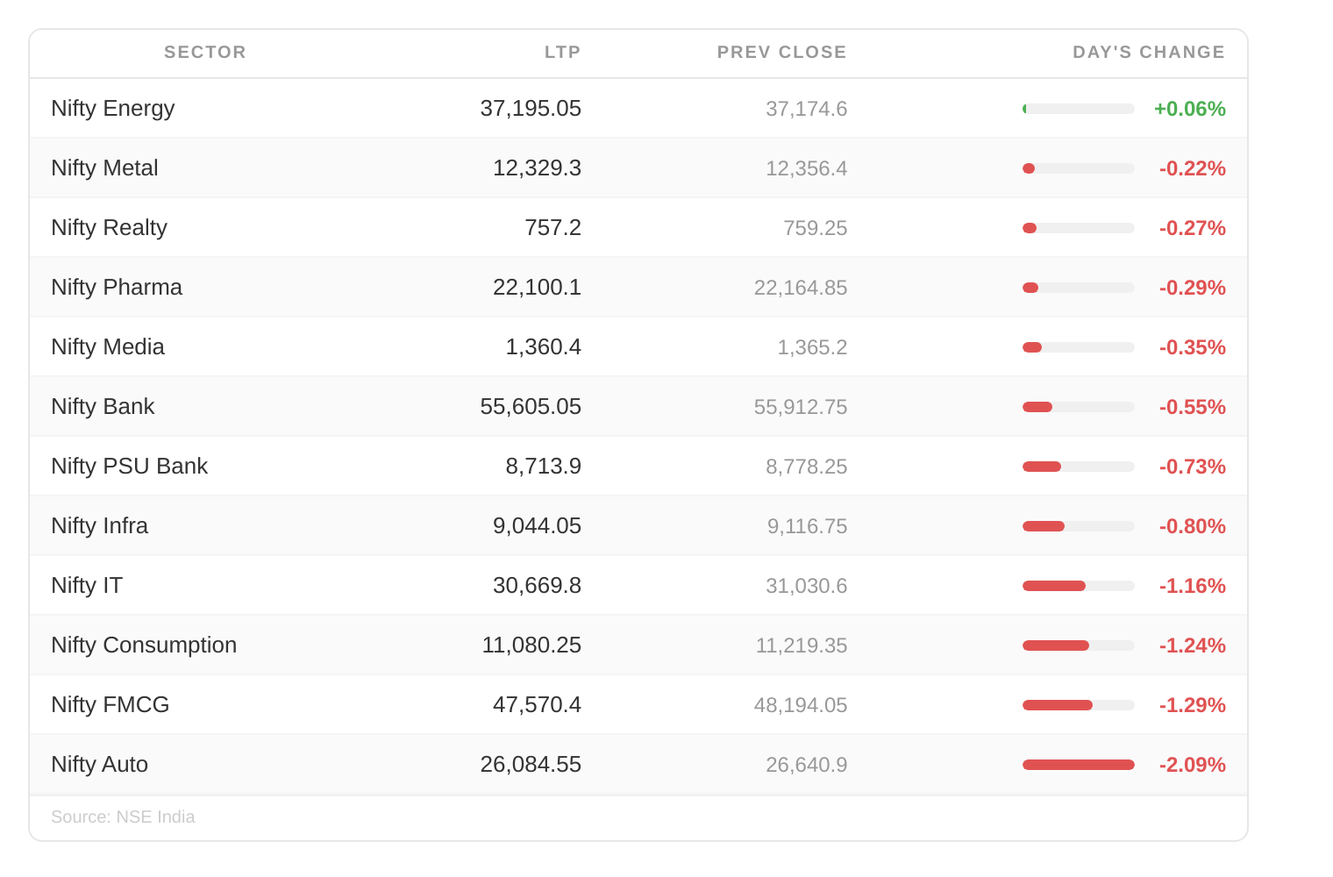
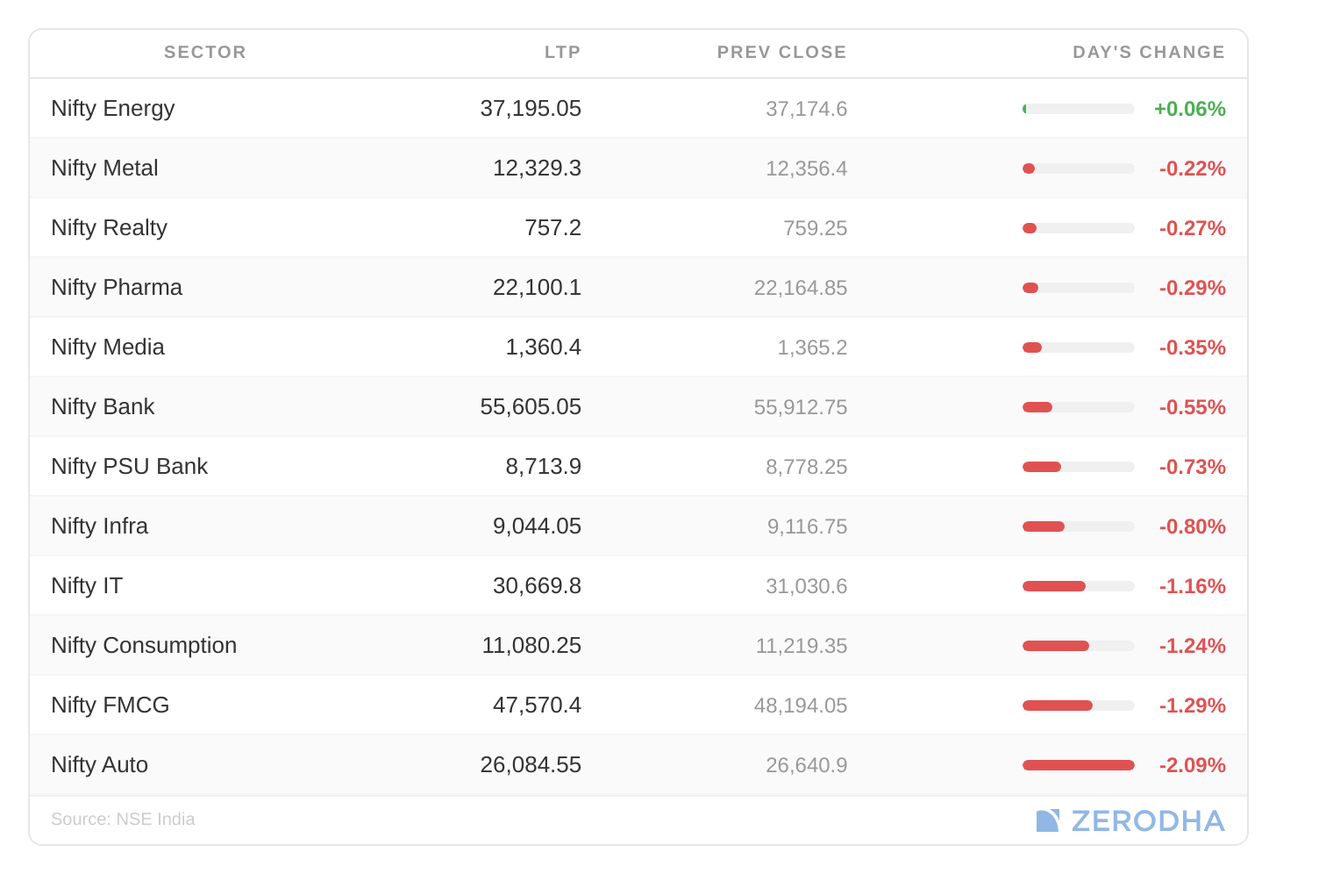
Newsletter: 2026-04-13

diff --git a/index.html b/index.html
@@ -244,7 +244,20 @@
       </div>
     </div>
   </div>
-    <div style="padding:7px 12px;font-size:10px;color:#CCCCCC;border-top:1px solid #F0F0F0;">Source: NSE India</div>
+    <div style="padding:7px 12px;font-size:10px;color:#CCCCCC;border-top:1px solid #F0F0F0;display:flex;align-items:center;justify-content:space-between;">
+    <span>Source: NSE India</span>
+    <svg height="13" viewBox="0 0 1523.45 184.15" xmlns="http://www.w3.org/2000/svg" style="display:inline-block;vertical-align:middle;opacity:0.55">
+  <path d="m1422.95,9.49h27.14l73.36,167.89h-30.98l-16.9-40.25h-78.85l-17.17,40.25h-30.02l73.42-167.89Zm41.91,101.67l-28.79-66.7-28.58,66.7h57.37Z" fill="#387ED1"/>
+  <path d="m1182.92,10.66h29.06v69.31h79.97V10.66h29.06v166.72h-29.06v-70.27h-79.97v70.27h-29.06V10.66Z" fill="#387ED1"/>
+  <path d="m156.38,44.79c11.25,14.56,20.58,30.92,27.78,48.62V0h-79.28c19.03,10.34,36.52,25.38,51.5,44.79Z" fill="#387ED1"/>
+  <path d="m42.07,9.97c-14.66,0-28.79,3.15-42.07,8.96v165.23h176.05C174.66,87.81,115.11,9.97,42.07,9.97" fill="#387ED1"/>
+  <path d="m289.35,155.68l98.37-119.05h-95.28V10.66h133.34v21.65l-98.37,119.11h98.37v25.96h-136.49v-21.7h.05Z" fill="#387ED1"/>
+  <path d="m462.46,10.66h123.37v26.44h-94.32v42.87h83.6v26.44h-83.6v44.52h95.49v26.44h-124.55V10.66h0Z" fill="#387ED1"/>
+  <path d="m622.04,10.66h74.32c10.5,0,19.78,1.49,27.88,4.43,8.1,2.93,14.82,7.04,20.26,12.26,4.43,4.59,7.84,9.92,10.24,15.94,2.4,6.02,3.57,12.69,3.57,19.99v.48c0,6.82-1.01,12.96-2.99,18.45-1.97,5.49-4.75,10.34-8.21,14.5-3.52,4.21-7.68,7.78-12.53,10.72-4.85,2.93-10.18,5.22-16.1,6.77l45,63.13h-34.55l-41.11-58.11h-36.73v58.11h-29.06V10.66Zm72.08,82.64c10.5,0,18.87-2.51,25.06-7.52,6.18-5.01,9.33-11.84,9.33-20.47v-.48c0-9.06-3.04-15.99-9.06-20.69-6.02-4.69-14.56-7.04-25.54-7.04h-42.81v56.2h43.03Z" fill="#387ED1"/>
+  <path d="m873.8,180.21c-12.85,0-24.63-2.24-35.24-6.77-10.66-4.53-19.78-10.66-27.4-18.45s-13.6-16.85-17.86-27.24c-4.27-10.4-6.45-21.49-6.45-33.22v-.48c0-11.73,2.13-22.82,6.45-33.22,4.27-10.4,10.34-19.51,18.07-27.4,7.78-7.84,17.01-14.08,27.62-18.71,10.61-4.59,22.39-6.93,35.24-6.93s24.63,2.24,35.24,6.77c10.61,4.53,19.78,10.66,27.4,18.45,7.62,7.78,13.6,16.85,17.86,27.24,4.27,10.4,6.45,21.49,6.45,33.22v.48c0,11.73-2.13,22.82-6.45,33.22-4.27,10.4-10.34,19.51-18.07,27.4-7.78,7.84-17.01,14.08-27.62,18.71-10.66,4.64-22.39,6.93-35.24,6.93Zm.43-26.87c8.21,0,15.78-1.55,22.66-4.64,6.88-3.09,12.74-7.3,17.65-12.64s8.74-11.57,11.52-18.71c2.77-7.14,4.16-14.77,4.16-22.87v-.48c0-8.1-1.39-15.78-4.16-22.98-2.77-7.2-6.66-13.49-11.62-18.82-4.96-5.33-10.93-9.54-17.91-12.74-6.98-3.2-14.56-4.75-22.77-4.75s-15.78,1.55-22.66,4.64c-6.88,3.09-12.74,7.3-17.65,12.64-4.91,5.33-8.74,11.57-11.52,18.71-2.77,7.14-4.16,14.77-4.16,22.87v.48c0,8.1,1.39,15.78,4.16,22.98,2.77,7.25,6.66,13.49,11.62,18.82,4.96,5.33,10.93,9.54,17.91,12.74,6.98,3.15,14.56,4.75,22.77,4.75Z" fill="#387ED1"/>
+  <path d="m996.64,10.66h62.17c13.01,0,24.95,2.13,35.83,6.29,10.88,4.21,20.26,10.02,28.1,17.49,7.84,7.46,13.92,16.26,18.23,26.34,4.27,10.08,6.45,21.01,6.45,32.74v.48c0,11.73-2.13,22.71-6.45,32.84-4.27,10.18-10.34,18.98-18.23,26.44-7.84,7.46-17.22,13.33-28.1,17.65-10.88,4.27-22.82,6.45-35.83,6.45h-62.17V10.66h0Zm61.95,140.27c8.74,0,16.69-1.39,23.83-4.16,7.14-2.77,13.22-6.72,18.23-11.73,5.01-5.01,8.9-10.98,11.68-17.91,2.77-6.93,4.16-14.45,4.16-22.61v-.48c0-8.1-1.39-15.73-4.16-22.71-2.77-7.04-6.66-13.01-11.68-18.07-5.01-5.01-11.09-8.96-18.23-11.84-7.14-2.88-15.09-4.32-23.83-4.32h-32.84v113.83h32.84Z" fill="#387ED1"/>
+</svg>
+  </div>
   </div>
   </div>
   <div class="nl-divider"></div>
@@ -409,7 +422,20 @@
       </td>
     </tr></tbody>
     </table>
-    <div style="padding:7px 12px;font-size:10px;color:#CCCCCC;border-top:1px solid #F0F0F0;">Source: NSE India</div>
+    <div style="padding:7px 12px;font-size:10px;color:#CCCCCC;border-top:1px solid #F0F0F0;display:flex;align-items:center;justify-content:space-between;">
+    <span>Source: NSE India</span>
+    <svg height="13" viewBox="0 0 1523.45 184.15" xmlns="http://www.w3.org/2000/svg" style="display:inline-block;vertical-align:middle;opacity:0.55">
+  <path d="m1422.95,9.49h27.14l73.36,167.89h-30.98l-16.9-40.25h-78.85l-17.17,40.25h-30.02l73.42-167.89Zm41.91,101.67l-28.79-66.7-28.58,66.7h57.37Z" fill="#387ED1"/>
+  <path d="m1182.92,10.66h29.06v69.31h79.97V10.66h29.06v166.72h-29.06v-70.27h-79.97v70.27h-29.06V10.66Z" fill="#387ED1"/>
+  <path d="m156.38,44.79c11.25,14.56,20.58,30.92,27.78,48.62V0h-79.28c19.03,10.34,36.52,25.38,51.5,44.79Z" fill="#387ED1"/>
+  <path d="m42.07,9.97c-14.66,0-28.79,3.15-42.07,8.96v165.23h176.05C174.66,87.81,115.11,9.97,42.07,9.97" fill="#387ED1"/>
+  <path d="m289.35,155.68l98.37-119.05h-95.28V10.66h133.34v21.65l-98.37,119.11h98.37v25.96h-136.49v-21.7h.05Z" fill="#387ED1"/>
+  <path d="m462.46,10.66h123.37v26.44h-94.32v42.87h83.6v26.44h-83.6v44.52h95.49v26.44h-124.55V10.66h0Z" fill="#387ED1"/>
+  <path d="m622.04,10.66h74.32c10.5,0,19.78,1.49,27.88,4.43,8.1,2.93,14.82,7.04,20.26,12.26,4.43,4.59,7.84,9.92,10.24,15.94,2.4,6.02,3.57,12.69,3.57,19.99v.48c0,6.82-1.01,12.96-2.99,18.45-1.97,5.49-4.75,10.34-8.21,14.5-3.52,4.21-7.68,7.78-12.53,10.72-4.85,2.93-10.18,5.22-16.1,6.77l45,63.13h-34.55l-41.11-58.11h-36.73v58.11h-29.06V10.66Zm72.08,82.64c10.5,0,18.87-2.51,25.06-7.52,6.18-5.01,9.33-11.84,9.33-20.47v-.48c0-9.06-3.04-15.99-9.06-20.69-6.02-4.69-14.56-7.04-25.54-7.04h-42.81v56.2h43.03Z" fill="#387ED1"/>
+  <path d="m873.8,180.21c-12.85,0-24.63-2.24-35.24-6.77-10.66-4.53-19.78-10.66-27.4-18.45s-13.6-16.85-17.86-27.24c-4.27-10.4-6.45-21.49-6.45-33.22v-.48c0-11.73,2.13-22.82,6.45-33.22,4.27-10.4,10.34-19.51,18.07-27.4,7.78-7.84,17.01-14.08,27.62-18.71,10.61-4.59,22.39-6.93,35.24-6.93s24.63,2.24,35.24,6.77c10.61,4.53,19.78,10.66,27.4,18.45,7.62,7.78,13.6,16.85,17.86,27.24,4.27,10.4,6.45,21.49,6.45,33.22v.48c0,11.73-2.13,22.82-6.45,33.22-4.27,10.4-10.34,19.51-18.07,27.4-7.78,7.84-17.01,14.08-27.62,18.71-10.66,4.64-22.39,6.93-35.24,6.93Zm.43-26.87c8.21,0,15.78-1.55,22.66-4.64,6.88-3.09,12.74-7.3,17.65-12.64s8.74-11.57,11.52-18.71c2.77-7.14,4.16-14.77,4.16-22.87v-.48c0-8.1-1.39-15.78-4.16-22.98-2.77-7.2-6.66-13.49-11.62-18.82-4.96-5.33-10.93-9.54-17.91-12.74-6.98-3.2-14.56-4.75-22.77-4.75s-15.78,1.55-22.66,4.64c-6.88,3.09-12.74,7.3-17.65,12.64-4.91,5.33-8.74,11.57-11.52,18.71-2.77,7.14-4.16,14.77-4.16,22.87v.48c0,8.1,1.39,15.78,4.16,22.98,2.77,7.25,6.66,13.49,11.62,18.82,4.96,5.33,10.93,9.54,17.91,12.74,6.98,3.15,14.56,4.75,22.77,4.75Z" fill="#387ED1"/>
+  <path d="m996.64,10.66h62.17c13.01,0,24.95,2.13,35.83,6.29,10.88,4.21,20.26,10.02,28.1,17.49,7.84,7.46,13.92,16.26,18.23,26.34,4.27,10.08,6.45,21.01,6.45,32.74v.48c0,11.73-2.13,22.71-6.45,32.84-4.27,10.18-10.34,18.98-18.23,26.44-7.84,7.46-17.22,13.33-28.1,17.65-10.88,4.27-22.82,6.45-35.83,6.45h-62.17V10.66h0Zm61.95,140.27c8.74,0,16.69-1.39,23.83-4.16,7.14-2.77,13.22-6.72,18.23-11.73,5.01-5.01,8.9-10.98,11.68-17.91,2.77-6.93,4.16-14.45,4.16-22.61v-.48c0-8.1-1.39-15.73-4.16-22.71-2.77-7.04-6.66-13.01-11.68-18.07-5.01-5.01-11.09-8.96-18.23-11.84-7.14-2.88-15.09-4.32-23.83-4.32h-32.84v113.83h32.84Z" fill="#387ED1"/>
+</svg>
+  </div>
   </div>
 <div style="display:flex;gap:12px;margin-top:12px;">
     <div style="flex:1;border:1px solid #E7E7E7;border-radius:8px;overflow:hidden;">
@@ -441,7 +467,20 @@
       <td style="padding:9px 12px;font-size:13px;color:#333;border-bottom:1px solid #F5F5F5;text-align:right;font-weight:600;color:#4CAF52;">+13.49%</td>
     </tr></tbody>
       </table>
-      <div style="padding:7px 12px;font-size:10px;color:#CCCCCC;border-top:1px solid #F0F0F0;">Source: NSE India</div>
+      <div style="padding:7px 12px;font-size:10px;color:#CCCCCC;border-top:1px solid #F0F0F0;display:flex;align-items:center;justify-content:space-between;">
+    <span>Source: NSE India</span>
+    <svg height="13" viewBox="0 0 1523.45 184.15" xmlns="http://www.w3.org/2000/svg" style="display:inline-block;vertical-align:middle;opacity:0.55">
+  <path d="m1422.95,9.49h27.14l73.36,167.89h-30.98l-16.9-40.25h-78.85l-17.17,40.25h-30.02l73.42-167.89Zm41.91,101.67l-28.79-66.7-28.58,66.7h57.37Z" fill="#387ED1"/>
+  <path d="m1182.92,10.66h29.06v69.31h79.97V10.66h29.06v166.72h-29.06v-70.27h-79.97v70.27h-29.06V10.66Z" fill="#387ED1"/>
+  <path d="m156.38,44.79c11.25,14.56,20.58,30.92,27.78,48.62V0h-79.28c19.03,10.34,36.52,25.38,51.5,44.79Z" fill="#387ED1"/>
+  <path d="m42.07,9.97c-14.66,0-28.79,3.15-42.07,8.96v165.23h176.05C174.66,87.81,115.11,9.97,42.07,9.97" fill="#387ED1"/>
+  <path d="m289.35,155.68l98.37-119.05h-95.28V10.66h133.34v21.65l-98.37,119.11h98.37v25.96h-136.49v-21.7h.05Z" fill="#387ED1"/>
+  <path d="m462.46,10.66h123.37v26.44h-94.32v42.87h83.6v26.44h-83.6v44.52h95.49v26.44h-124.55V10.66h0Z" fill="#387ED1"/>
+  <path d="m622.04,10.66h74.32c10.5,0,19.78,1.49,27.88,4.43,8.1,2.93,14.82,7.04,20.26,12.26,4.43,4.59,7.84,9.92,10.24,15.94,2.4,6.02,3.57,12.69,3.57,19.99v.48c0,6.82-1.01,12.96-2.99,18.45-1.97,5.49-4.75,10.34-8.21,14.5-3.52,4.21-7.68,7.78-12.53,10.72-4.85,2.93-10.18,5.22-16.1,6.77l45,63.13h-34.55l-41.11-58.11h-36.73v58.11h-29.06V10.66Zm72.08,82.64c10.5,0,18.87-2.51,25.06-7.52,6.18-5.01,9.33-11.84,9.33-20.47v-.48c0-9.06-3.04-15.99-9.06-20.69-6.02-4.69-14.56-7.04-25.54-7.04h-42.81v56.2h43.03Z" fill="#387ED1"/>
+  <path d="m873.8,180.21c-12.85,0-24.63-2.24-35.24-6.77-10.66-4.53-19.78-10.66-27.4-18.45s-13.6-16.85-17.86-27.24c-4.27-10.4-6.45-21.49-6.45-33.22v-.48c0-11.73,2.13-22.82,6.45-33.22,4.27-10.4,10.34-19.51,18.07-27.4,7.78-7.84,17.01-14.08,27.62-18.71,10.61-4.59,22.39-6.93,35.24-6.93s24.63,2.24,35.24,6.77c10.61,4.53,19.78,10.66,27.4,18.45,7.62,7.78,13.6,16.85,17.86,27.24,4.27,10.4,6.45,21.49,6.45,33.22v.48c0,11.73-2.13,22.82-6.45,33.22-4.27,10.4-10.34,19.51-18.07,27.4-7.78,7.84-17.01,14.08-27.62,18.71-10.66,4.64-22.39,6.93-35.24,6.93Zm.43-26.87c8.21,0,15.78-1.55,22.66-4.64,6.88-3.09,12.74-7.3,17.65-12.64s8.74-11.57,11.52-18.71c2.77-7.14,4.16-14.77,4.16-22.87v-.48c0-8.1-1.39-15.78-4.16-22.98-2.77-7.2-6.66-13.49-11.62-18.82-4.96-5.33-10.93-9.54-17.91-12.74-6.98-3.2-14.56-4.75-22.77-4.75s-15.78,1.55-22.66,4.64c-6.88,3.09-12.74,7.3-17.65,12.64-4.91,5.33-8.74,11.57-11.52,18.71-2.77,7.14-4.16,14.77-4.16,22.87v.48c0,8.1,1.39,15.78,4.16,22.98,2.77,7.25,6.66,13.49,11.62,18.82,4.96,5.33,10.93,9.54,17.91,12.74,6.98,3.15,14.56,4.75,22.77,4.75Z" fill="#387ED1"/>
+  <path d="m996.64,10.66h62.17c13.01,0,24.95,2.13,35.83,6.29,10.88,4.21,20.26,10.02,28.1,17.49,7.84,7.46,13.92,16.26,18.23,26.34,4.27,10.08,6.45,21.01,6.45,32.74v.48c0,11.73-2.13,22.71-6.45,32.84-4.27,10.18-10.34,18.98-18.23,26.44-7.84,7.46-17.22,13.33-28.1,17.65-10.88,4.27-22.82,6.45-35.83,6.45h-62.17V10.66h0Zm61.95,140.27c8.74,0,16.69-1.39,23.83-4.16,7.14-2.77,13.22-6.72,18.23-11.73,5.01-5.01,8.9-10.98,11.68-17.91,2.77-6.93,4.16-14.45,4.16-22.61v-.48c0-8.1-1.39-15.73-4.16-22.71-2.77-7.04-6.66-13.01-11.68-18.07-5.01-5.01-11.09-8.96-18.23-11.84-7.14-2.88-15.09-4.32-23.83-4.32h-32.84v113.83h32.84Z" fill="#387ED1"/>
+</svg>
+  </div>
     </div>
     <div style="flex:1;border:1px solid #E7E7E7;border-radius:8px;overflow:hidden;">
       <table style="width:100%;border-collapse:collapse;">
@@ -472,7 +511,20 @@
       <td style="padding:9px 12px;font-size:13px;color:#333;border-bottom:1px solid #F5F5F5;text-align:right;font-weight:600;color:#E05252;">-7.28%</td>
     </tr></tbody>
       </table>
-      <div style="padding:7px 12px;font-size:10px;color:#CCCCCC;border-top:1px solid #F0F0F0;">Source: NSE India</div>
+      <div style="padding:7px 12px;font-size:10px;color:#CCCCCC;border-top:1px solid #F0F0F0;display:flex;align-items:center;justify-content:space-between;">
+    <span>Source: NSE India</span>
+    <svg height="13" viewBox="0 0 1523.45 184.15" xmlns="http://www.w3.org/2000/svg" style="display:inline-block;vertical-align:middle;opacity:0.55">
+  <path d="m1422.95,9.49h27.14l73.36,167.89h-30.98l-16.9-40.25h-78.85l-17.17,40.25h-30.02l73.42-167.89Zm41.91,101.67l-28.79-66.7-28.58,66.7h57.37Z" fill="#387ED1"/>
+  <path d="m1182.92,10.66h29.06v69.31h79.97V10.66h29.06v166.72h-29.06v-70.27h-79.97v70.27h-29.06V10.66Z" fill="#387ED1"/>
+  <path d="m156.38,44.79c11.25,14.56,20.58,30.92,27.78,48.62V0h-79.28c19.03,10.34,36.52,25.38,51.5,44.79Z" fill="#387ED1"/>
+  <path d="m42.07,9.97c-14.66,0-28.79,3.15-42.07,8.96v165.23h176.05C174.66,87.81,115.11,9.97,42.07,9.97" fill="#387ED1"/>
+  <path d="m289.35,155.68l98.37-119.05h-95.28V10.66h133.34v21.65l-98.37,119.11h98.37v25.96h-136.49v-21.7h.05Z" fill="#387ED1"/>
+  <path d="m462.46,10.66h123.37v26.44h-94.32v42.87h83.6v26.44h-83.6v44.52h95.49v26.44h-124.55V10.66h0Z" fill="#387ED1"/>
+  <path d="m622.04,10.66h74.32c10.5,0,19.78,1.49,27.88,4.43,8.1,2.93,14.82,7.04,20.26,12.26,4.43,4.59,7.84,9.92,10.24,15.94,2.4,6.02,3.57,12.69,3.57,19.99v.48c0,6.82-1.01,12.96-2.99,18.45-1.97,5.49-4.75,10.34-8.21,14.5-3.52,4.21-7.68,7.78-12.53,10.72-4.85,2.93-10.18,5.22-16.1,6.77l45,63.13h-34.55l-41.11-58.11h-36.73v58.11h-29.06V10.66Zm72.08,82.64c10.5,0,18.87-2.51,25.06-7.52,6.18-5.01,9.33-11.84,9.33-20.47v-.48c0-9.06-3.04-15.99-9.06-20.69-6.02-4.69-14.56-7.04-25.54-7.04h-42.81v56.2h43.03Z" fill="#387ED1"/>
+  <path d="m873.8,180.21c-12.85,0-24.63-2.24-35.24-6.77-10.66-4.53-19.78-10.66-27.4-18.45s-13.6-16.85-17.86-27.24c-4.27-10.4-6.45-21.49-6.45-33.22v-.48c0-11.73,2.13-22.82,6.45-33.22,4.27-10.4,10.34-19.51,18.07-27.4,7.78-7.84,17.01-14.08,27.62-18.71,10.61-4.59,22.39-6.93,35.24-6.93s24.63,2.24,35.24,6.77c10.61,4.53,19.78,10.66,27.4,18.45,7.62,7.78,13.6,16.85,17.86,27.24,4.27,10.4,6.45,21.49,6.45,33.22v.48c0,11.73-2.13,22.82-6.45,33.22-4.27,10.4-10.34,19.51-18.07,27.4-7.78,7.84-17.01,14.08-27.62,18.71-10.66,4.64-22.39,6.93-35.24,6.93Zm.43-26.87c8.21,0,15.78-1.55,22.66-4.64,6.88-3.09,12.74-7.3,17.65-12.64s8.74-11.57,11.52-18.71c2.77-7.14,4.16-14.77,4.16-22.87v-.48c0-8.1-1.39-15.78-4.16-22.98-2.77-7.2-6.66-13.49-11.62-18.82-4.96-5.33-10.93-9.54-17.91-12.74-6.98-3.2-14.56-4.75-22.77-4.75s-15.78,1.55-22.66,4.64c-6.88,3.09-12.74,7.3-17.65,12.64-4.91,5.33-8.74,11.57-11.52,18.71-2.77,7.14-4.16,14.77-4.16,22.87v.48c0,8.1,1.39,15.78,4.16,22.98,2.77,7.25,6.66,13.49,11.62,18.82,4.96,5.33,10.93,9.54,17.91,12.74,6.98,3.15,14.56,4.75,22.77,4.75Z" fill="#387ED1"/>
+  <path d="m996.64,10.66h62.17c13.01,0,24.95,2.13,35.83,6.29,10.88,4.21,20.26,10.02,28.1,17.49,7.84,7.46,13.92,16.26,18.23,26.34,4.27,10.08,6.45,21.01,6.45,32.74v.48c0,11.73-2.13,22.71-6.45,32.84-4.27,10.18-10.34,18.98-18.23,26.44-7.84,7.46-17.22,13.33-28.1,17.65-10.88,4.27-22.82,6.45-35.83,6.45h-62.17V10.66h0Zm61.95,140.27c8.74,0,16.69-1.39,23.83-4.16,7.14-2.77,13.22-6.72,18.23-11.73,5.01-5.01,8.9-10.98,11.68-17.91,2.77-6.93,4.16-14.45,4.16-22.61v-.48c0-8.1-1.39-15.73-4.16-22.71-2.77-7.04-6.66-13.01-11.68-18.07-5.01-5.01-11.09-8.96-18.23-11.84-7.14-2.88-15.09-4.32-23.83-4.32h-32.84v113.83h32.84Z" fill="#387ED1"/>
+</svg>
+  </div>
     </div>
   </div>
   </div>
@@ -538,7 +590,20 @@
       <td style="padding:9px 12px;font-size:13px;color:#333;border-bottom:1px solid #F5F5F5;text-align:right;font-weight:600;color:#4CAF52;">+2.16%</td>
     </tr></tbody>
     </table>
-    <div style="padding:7px 12px;font-size:10px;color:#CCCCCC;border-top:1px solid #F0F0F0;">Source: MCX / NSE India</div>
+    <div style="padding:7px 12px;font-size:10px;color:#CCCCCC;border-top:1px solid #F0F0F0;display:flex;align-items:center;justify-content:space-between;">
+    <span>Source: MCX / NSE India</span>
+    <svg height="13" viewBox="0 0 1523.45 184.15" xmlns="http://www.w3.org/2000/svg" style="display:inline-block;vertical-align:middle;opacity:0.55">
+  <path d="m1422.95,9.49h27.14l73.36,167.89h-30.98l-16.9-40.25h-78.85l-17.17,40.25h-30.02l73.42-167.89Zm41.91,101.67l-28.79-66.7-28.58,66.7h57.37Z" fill="#387ED1"/>
+  <path d="m1182.92,10.66h29.06v69.31h79.97V10.66h29.06v166.72h-29.06v-70.27h-79.97v70.27h-29.06V10.66Z" fill="#387ED1"/>
+  <path d="m156.38,44.79c11.25,14.56,20.58,30.92,27.78,48.62V0h-79.28c19.03,10.34,36.52,25.38,51.5,44.79Z" fill="#387ED1"/>
+  <path d="m42.07,9.97c-14.66,0-28.79,3.15-42.07,8.96v165.23h176.05C174.66,87.81,115.11,9.97,42.07,9.97" fill="#387ED1"/>
+  <path d="m289.35,155.68l98.37-119.05h-95.28V10.66h133.34v21.65l-98.37,119.11h98.37v25.96h-136.49v-21.7h.05Z" fill="#387ED1"/>
+  <path d="m462.46,10.66h123.37v26.44h-94.32v42.87h83.6v26.44h-83.6v44.52h95.49v26.44h-124.55V10.66h0Z" fill="#387ED1"/>
+  <path d="m622.04,10.66h74.32c10.5,0,19.78,1.49,27.88,4.43,8.1,2.93,14.82,7.04,20.26,12.26,4.43,4.59,7.84,9.92,10.24,15.94,2.4,6.02,3.57,12.69,3.57,19.99v.48c0,6.82-1.01,12.96-2.99,18.45-1.97,5.49-4.75,10.34-8.21,14.5-3.52,4.21-7.68,7.78-12.53,10.72-4.85,2.93-10.18,5.22-16.1,6.77l45,63.13h-34.55l-41.11-58.11h-36.73v58.11h-29.06V10.66Zm72.08,82.64c10.5,0,18.87-2.51,25.06-7.52,6.18-5.01,9.33-11.84,9.33-20.47v-.48c0-9.06-3.04-15.99-9.06-20.69-6.02-4.69-14.56-7.04-25.54-7.04h-42.81v56.2h43.03Z" fill="#387ED1"/>
+  <path d="m873.8,180.21c-12.85,0-24.63-2.24-35.24-6.77-10.66-4.53-19.78-10.66-27.4-18.45s-13.6-16.85-17.86-27.24c-4.27-10.4-6.45-21.49-6.45-33.22v-.48c0-11.73,2.13-22.82,6.45-33.22,4.27-10.4,10.34-19.51,18.07-27.4,7.78-7.84,17.01-14.08,27.62-18.71,10.61-4.59,22.39-6.93,35.24-6.93s24.63,2.24,35.24,6.77c10.61,4.53,19.78,10.66,27.4,18.45,7.62,7.78,13.6,16.85,17.86,27.24,4.27,10.4,6.45,21.49,6.45,33.22v.48c0,11.73-2.13,22.82-6.45,33.22-4.27,10.4-10.34,19.51-18.07,27.4-7.78,7.84-17.01,14.08-27.62,18.71-10.66,4.64-22.39,6.93-35.24,6.93Zm.43-26.87c8.21,0,15.78-1.55,22.66-4.64,6.88-3.09,12.74-7.3,17.65-12.64s8.74-11.57,11.52-18.71c2.77-7.14,4.16-14.77,4.16-22.87v-.48c0-8.1-1.39-15.78-4.16-22.98-2.77-7.2-6.66-13.49-11.62-18.82-4.96-5.33-10.93-9.54-17.91-12.74-6.98-3.2-14.56-4.75-22.77-4.75s-15.78,1.55-22.66,4.64c-6.88,3.09-12.74,7.3-17.65,12.64-4.91,5.33-8.74,11.57-11.52,18.71-2.77,7.14-4.16,14.77-4.16,22.87v.48c0,8.1,1.39,15.78,4.16,22.98,2.77,7.25,6.66,13.49,11.62,18.82,4.96,5.33,10.93,9.54,17.91,12.74,6.98,3.15,14.56,4.75,22.77,4.75Z" fill="#387ED1"/>
+  <path d="m996.64,10.66h62.17c13.01,0,24.95,2.13,35.83,6.29,10.88,4.21,20.26,10.02,28.1,17.49,7.84,7.46,13.92,16.26,18.23,26.34,4.27,10.08,6.45,21.01,6.45,32.74v.48c0,11.73-2.13,22.71-6.45,32.84-4.27,10.18-10.34,18.98-18.23,26.44-7.84,7.46-17.22,13.33-28.1,17.65-10.88,4.27-22.82,6.45-35.83,6.45h-62.17V10.66h0Zm61.95,140.27c8.74,0,16.69-1.39,23.83-4.16,7.14-2.77,13.22-6.72,18.23-11.73,5.01-5.01,8.9-10.98,11.68-17.91,2.77-6.93,4.16-14.45,4.16-22.61v-.48c0-8.1-1.39-15.73-4.16-22.71-2.77-7.04-6.66-13.01-11.68-18.07-5.01-5.01-11.09-8.96-18.23-11.84-7.14-2.88-15.09-4.32-23.83-4.32h-32.84v113.83h32.84Z" fill="#387ED1"/>
+</svg>
+  </div>
   </div>
   </div>
   <div class="nl-divider"></div>
@@ -611,7 +676,20 @@
     </tr></tbody>
       </table>
     </div>
-    <div style="padding:7px 12px;font-size:10px;color:#CCCCCC;border-top:1px solid #F0F0F0;">Source: NSE India / BSE</div>
+    <div style="padding:7px 12px;font-size:10px;color:#CCCCCC;border-top:1px solid #F0F0F0;display:flex;align-items:center;justify-content:space-between;">
+    <span>Source: NSE India / BSE</span>
+    <svg height="13" viewBox="0 0 1523.45 184.15" xmlns="http://www.w3.org/2000/svg" style="display:inline-block;vertical-align:middle;opacity:0.55">
+  <path d="m1422.95,9.49h27.14l73.36,167.89h-30.98l-16.9-40.25h-78.85l-17.17,40.25h-30.02l73.42-167.89Zm41.91,101.67l-28.79-66.7-28.58,66.7h57.37Z" fill="#387ED1"/>
+  <path d="m1182.92,10.66h29.06v69.31h79.97V10.66h29.06v166.72h-29.06v-70.27h-79.97v70.27h-29.06V10.66Z" fill="#387ED1"/>
+  <path d="m156.38,44.79c11.25,14.56,20.58,30.92,27.78,48.62V0h-79.28c19.03,10.34,36.52,25.38,51.5,44.79Z" fill="#387ED1"/>
+  <path d="m42.07,9.97c-14.66,0-28.79,3.15-42.07,8.96v165.23h176.05C174.66,87.81,115.11,9.97,42.07,9.97" fill="#387ED1"/>
+  <path d="m289.35,155.68l98.37-119.05h-95.28V10.66h133.34v21.65l-98.37,119.11h98.37v25.96h-136.49v-21.7h.05Z" fill="#387ED1"/>
+  <path d="m462.46,10.66h123.37v26.44h-94.32v42.87h83.6v26.44h-83.6v44.52h95.49v26.44h-124.55V10.66h0Z" fill="#387ED1"/>
+  <path d="m622.04,10.66h74.32c10.5,0,19.78,1.49,27.88,4.43,8.1,2.93,14.82,7.04,20.26,12.26,4.43,4.59,7.84,9.92,10.24,15.94,2.4,6.02,3.57,12.69,3.57,19.99v.48c0,6.82-1.01,12.96-2.99,18.45-1.97,5.49-4.75,10.34-8.21,14.5-3.52,4.21-7.68,7.78-12.53,10.72-4.85,2.93-10.18,5.22-16.1,6.77l45,63.13h-34.55l-41.11-58.11h-36.73v58.11h-29.06V10.66Zm72.08,82.64c10.5,0,18.87-2.51,25.06-7.52,6.18-5.01,9.33-11.84,9.33-20.47v-.48c0-9.06-3.04-15.99-9.06-20.69-6.02-4.69-14.56-7.04-25.54-7.04h-42.81v56.2h43.03Z" fill="#387ED1"/>
+  <path d="m873.8,180.21c-12.85,0-24.63-2.24-35.24-6.77-10.66-4.53-19.78-10.66-27.4-18.45s-13.6-16.85-17.86-27.24c-4.27-10.4-6.45-21.49-6.45-33.22v-.48c0-11.73,2.13-22.82,6.45-33.22,4.27-10.4,10.34-19.51,18.07-27.4,7.78-7.84,17.01-14.08,27.62-18.71,10.61-4.59,22.39-6.93,35.24-6.93s24.63,2.24,35.24,6.77c10.61,4.53,19.78,10.66,27.4,18.45,7.62,7.78,13.6,16.85,17.86,27.24,4.27,10.4,6.45,21.49,6.45,33.22v.48c0,11.73-2.13,22.82-6.45,33.22-4.27,10.4-10.34,19.51-18.07,27.4-7.78,7.84-17.01,14.08-27.62,18.71-10.66,4.64-22.39,6.93-35.24,6.93Zm.43-26.87c8.21,0,15.78-1.55,22.66-4.64,6.88-3.09,12.74-7.3,17.65-12.64s8.74-11.57,11.52-18.71c2.77-7.14,4.16-14.77,4.16-22.87v-.48c0-8.1-1.39-15.78-4.16-22.98-2.77-7.2-6.66-13.49-11.62-18.82-4.96-5.33-10.93-9.54-17.91-12.74-6.98-3.2-14.56-4.75-22.77-4.75s-15.78,1.55-22.66,4.64c-6.88,3.09-12.74,7.3-17.65,12.64-4.91,5.33-8.74,11.57-11.52,18.71-2.77,7.14-4.16,14.77-4.16,22.87v.48c0,8.1,1.39,15.78,4.16,22.98,2.77,7.25,6.66,13.49,11.62,18.82,4.96,5.33,10.93,9.54,17.91,12.74,6.98,3.15,14.56,4.75,22.77,4.75Z" fill="#387ED1"/>
+  <path d="m996.64,10.66h62.17c13.01,0,24.95,2.13,35.83,6.29,10.88,4.21,20.26,10.02,28.1,17.49,7.84,7.46,13.92,16.26,18.23,26.34,4.27,10.08,6.45,21.01,6.45,32.74v.48c0,11.73-2.13,22.71-6.45,32.84-4.27,10.18-10.34,18.98-18.23,26.44-7.84,7.46-17.22,13.33-28.1,17.65-10.88,4.27-22.82,6.45-35.83,6.45h-62.17V10.66h0Zm61.95,140.27c8.74,0,16.69-1.39,23.83-4.16,7.14-2.77,13.22-6.72,18.23-11.73,5.01-5.01,8.9-10.98,11.68-17.91,2.77-6.93,4.16-14.45,4.16-22.61v-.48c0-8.1-1.39-15.73-4.16-22.71-2.77-7.04-6.66-13.01-11.68-18.07-5.01-5.01-11.09-8.96-18.23-11.84-7.14-2.88-15.09-4.32-23.83-4.32h-32.84v113.83h32.84Z" fill="#387ED1"/>
+</svg>
+  </div>
   </div>
   </div>
   <div class="nl-divider"></div>
@@ -693,7 +771,20 @@
         <span style="color:#989898;"> 25 (NIFTY)</span>
       </div>
   </div>
-    <div style="padding:7px 12px;font-size:10px;color:#CCCCCC;border-top:1px solid #F0F0F0;">Source: NSE India</div>
+    <div style="padding:7px 12px;font-size:10px;color:#CCCCCC;border-top:1px solid #F0F0F0;display:flex;align-items:center;justify-content:space-between;">
+    <span>Source: NSE India</span>
+    <svg height="13" viewBox="0 0 1523.45 184.15" xmlns="http://www.w3.org/2000/svg" style="display:inline-block;vertical-align:middle;opacity:0.55">
+  <path d="m1422.95,9.49h27.14l73.36,167.89h-30.98l-16.9-40.25h-78.85l-17.17,40.25h-30.02l73.42-167.89Zm41.91,101.67l-28.79-66.7-28.58,66.7h57.37Z" fill="#387ED1"/>
+  <path d="m1182.92,10.66h29.06v69.31h79.97V10.66h29.06v166.72h-29.06v-70.27h-79.97v70.27h-29.06V10.66Z" fill="#387ED1"/>
+  <path d="m156.38,44.79c11.25,14.56,20.58,30.92,27.78,48.62V0h-79.28c19.03,10.34,36.52,25.38,51.5,44.79Z" fill="#387ED1"/>
+  <path d="m42.07,9.97c-14.66,0-28.79,3.15-42.07,8.96v165.23h176.05C174.66,87.81,115.11,9.97,42.07,9.97" fill="#387ED1"/>
+  <path d="m289.35,155.68l98.37-119.05h-95.28V10.66h133.34v21.65l-98.37,119.11h98.37v25.96h-136.49v-21.7h.05Z" fill="#387ED1"/>
+  <path d="m462.46,10.66h123.37v26.44h-94.32v42.87h83.6v26.44h-83.6v44.52h95.49v26.44h-124.55V10.66h0Z" fill="#387ED1"/>
+  <path d="m622.04,10.66h74.32c10.5,0,19.78,1.49,27.88,4.43,8.1,2.93,14.82,7.04,20.26,12.26,4.43,4.59,7.84,9.92,10.24,15.94,2.4,6.02,3.57,12.69,3.57,19.99v.48c0,6.82-1.01,12.96-2.99,18.45-1.97,5.49-4.75,10.34-8.21,14.5-3.52,4.21-7.68,7.78-12.53,10.72-4.85,2.93-10.18,5.22-16.1,6.77l45,63.13h-34.55l-41.11-58.11h-36.73v58.11h-29.06V10.66Zm72.08,82.64c10.5,0,18.87-2.51,25.06-7.52,6.18-5.01,9.33-11.84,9.33-20.47v-.48c0-9.06-3.04-15.99-9.06-20.69-6.02-4.69-14.56-7.04-25.54-7.04h-42.81v56.2h43.03Z" fill="#387ED1"/>
+  <path d="m873.8,180.21c-12.85,0-24.63-2.24-35.24-6.77-10.66-4.53-19.78-10.66-27.4-18.45s-13.6-16.85-17.86-27.24c-4.27-10.4-6.45-21.49-6.45-33.22v-.48c0-11.73,2.13-22.82,6.45-33.22,4.27-10.4,10.34-19.51,18.07-27.4,7.78-7.84,17.01-14.08,27.62-18.71,10.61-4.59,22.39-6.93,35.24-6.93s24.63,2.24,35.24,6.77c10.61,4.53,19.78,10.66,27.4,18.45,7.62,7.78,13.6,16.85,17.86,27.24,4.27,10.4,6.45,21.49,6.45,33.22v.48c0,11.73-2.13,22.82-6.45,33.22-4.27,10.4-10.34,19.51-18.07,27.4-7.78,7.84-17.01,14.08-27.62,18.71-10.66,4.64-22.39,6.93-35.24,6.93Zm.43-26.87c8.21,0,15.78-1.55,22.66-4.64,6.88-3.09,12.74-7.3,17.65-12.64s8.74-11.57,11.52-18.71c2.77-7.14,4.16-14.77,4.16-22.87v-.48c0-8.1-1.39-15.78-4.16-22.98-2.77-7.2-6.66-13.49-11.62-18.82-4.96-5.33-10.93-9.54-17.91-12.74-6.98-3.2-14.56-4.75-22.77-4.75s-15.78,1.55-22.66,4.64c-6.88,3.09-12.74,7.3-17.65,12.64-4.91,5.33-8.74,11.57-11.52,18.71-2.77,7.14-4.16,14.77-4.16,22.87v.48c0,8.1,1.39,15.78,4.16,22.98,2.77,7.25,6.66,13.49,11.62,18.82,4.96,5.33,10.93,9.54,17.91,12.74,6.98,3.15,14.56,4.75,22.77,4.75Z" fill="#387ED1"/>
+  <path d="m996.64,10.66h62.17c13.01,0,24.95,2.13,35.83,6.29,10.88,4.21,20.26,10.02,28.1,17.49,7.84,7.46,13.92,16.26,18.23,26.34,4.27,10.08,6.45,21.01,6.45,32.74v.48c0,11.73-2.13,22.71-6.45,32.84-4.27,10.18-10.34,18.98-18.23,26.44-7.84,7.46-17.22,13.33-28.1,17.65-10.88,4.27-22.82,6.45-35.83,6.45h-62.17V10.66h0Zm61.95,140.27c8.74,0,16.69-1.39,23.83-4.16,7.14-2.77,13.22-6.72,18.23-11.73,5.01-5.01,8.9-10.98,11.68-17.91,2.77-6.93,4.16-14.45,4.16-22.61v-.48c0-8.1-1.39-15.73-4.16-22.71-2.77-7.04-6.66-13.01-11.68-18.07-5.01-5.01-11.09-8.96-18.23-11.84-7.14-2.88-15.09-4.32-23.83-4.32h-32.84v113.83h32.84Z" fill="#387ED1"/>
+</svg>
+  </div>
   </div>
   </div>
   <div class="nl-divider"></div>
@@ -820,10 +911,21 @@
       </td>
     </tr></tbody>
       </table>
-      <div style="padding:10px 16px;border-top:1px solid #F0F0F0;font-size:11px;color:#BBBBBB;">
-        PCR: 1.25 &nbsp;·&nbsp;
+      <div style="padding:10px 16px;border-top:1px solid #F0F0F0;font-size:11px;color:#BBBBBB;display:flex;align-items:center;justify-content:space-between;">
+        <span>PCR: 1.25 &nbsp;·&nbsp;
         Implied Support: 23,800 &nbsp;·&nbsp;
-        Implied Resistance: 23,850
+        Implied Resistance: 23,850</span>
+        <svg height="13" viewBox="0 0 1523.45 184.15" xmlns="http://www.w3.org/2000/svg" style="display:inline-block;vertical-align:middle;opacity:0.55">
+  <path d="m1422.95,9.49h27.14l73.36,167.89h-30.98l-16.9-40.25h-78.85l-17.17,40.25h-30.02l73.42-167.89Zm41.91,101.67l-28.79-66.7-28.58,66.7h57.37Z" fill="#387ED1"/>
+  <path d="m1182.92,10.66h29.06v69.31h79.97V10.66h29.06v166.72h-29.06v-70.27h-79.97v70.27h-29.06V10.66Z" fill="#387ED1"/>
+  <path d="m156.38,44.79c11.25,14.56,20.58,30.92,27.78,48.62V0h-79.28c19.03,10.34,36.52,25.38,51.5,44.79Z" fill="#387ED1"/>
+  <path d="m42.07,9.97c-14.66,0-28.79,3.15-42.07,8.96v165.23h176.05C174.66,87.81,115.11,9.97,42.07,9.97" fill="#387ED1"/>
+  <path d="m289.35,155.68l98.37-119.05h-95.28V10.66h133.34v21.65l-98.37,119.11h98.37v25.96h-136.49v-21.7h.05Z" fill="#387ED1"/>
+  <path d="m462.46,10.66h123.37v26.44h-94.32v42.87h83.6v26.44h-83.6v44.52h95.49v26.44h-124.55V10.66h0Z" fill="#387ED1"/>
+  <path d="m622.04,10.66h74.32c10.5,0,19.78,1.49,27.88,4.43,8.1,2.93,14.82,7.04,20.26,12.26,4.43,4.59,7.84,9.92,10.24,15.94,2.4,6.02,3.57,12.69,3.57,19.99v.48c0,6.82-1.01,12.96-2.99,18.45-1.97,5.49-4.75,10.34-8.21,14.5-3.52,4.21-7.68,7.78-12.53,10.72-4.85,2.93-10.18,5.22-16.1,6.77l45,63.13h-34.55l-41.11-58.11h-36.73v58.11h-29.06V10.66Zm72.08,82.64c10.5,0,18.87-2.51,25.06-7.52,6.18-5.01,9.33-11.84,9.33-20.47v-.48c0-9.06-3.04-15.99-9.06-20.69-6.02-4.69-14.56-7.04-25.54-7.04h-42.81v56.2h43.03Z" fill="#387ED1"/>
+  <path d="m873.8,180.21c-12.85,0-24.63-2.24-35.24-6.77-10.66-4.53-19.78-10.66-27.4-18.45s-13.6-16.85-17.86-27.24c-4.27-10.4-6.45-21.49-6.45-33.22v-.48c0-11.73,2.13-22.82,6.45-33.22,4.27-10.4,10.34-19.51,18.07-27.4,7.78-7.84,17.01-14.08,27.62-18.71,10.61-4.59,22.39-6.93,35.24-6.93s24.63,2.24,35.24,6.77c10.61,4.53,19.78,10.66,27.4,18.45,7.62,7.78,13.6,16.85,17.86,27.24,4.27,10.4,6.45,21.49,6.45,33.22v.48c0,11.73-2.13,22.82-6.45,33.22-4.27,10.4-10.34,19.51-18.07,27.4-7.78,7.84-17.01,14.08-27.62,18.71-10.66,4.64-22.39,6.93-35.24,6.93Zm.43-26.87c8.21,0,15.78-1.55,22.66-4.64,6.88-3.09,12.74-7.3,17.65-12.64s8.74-11.57,11.52-18.71c2.77-7.14,4.16-14.77,4.16-22.87v-.48c0-8.1-1.39-15.78-4.16-22.98-2.77-7.2-6.66-13.49-11.62-18.82-4.96-5.33-10.93-9.54-17.91-12.74-6.98-3.2-14.56-4.75-22.77-4.75s-15.78,1.55-22.66,4.64c-6.88,3.09-12.74,7.3-17.65,12.64-4.91,5.33-8.74,11.57-11.52,18.71-2.77,7.14-4.16,14.77-4.16,22.87v.48c0,8.1,1.39,15.78,4.16,22.98,2.77,7.25,6.66,13.49,11.62,18.82,4.96,5.33,10.93,9.54,17.91,12.74,6.98,3.15,14.56,4.75,22.77,4.75Z" fill="#387ED1"/>
+  <path d="m996.64,10.66h62.17c13.01,0,24.95,2.13,35.83,6.29,10.88,4.21,20.26,10.02,28.1,17.49,7.84,7.46,13.92,16.26,18.23,26.34,4.27,10.08,6.45,21.01,6.45,32.74v.48c0,11.73-2.13,22.71-6.45,32.84-4.27,10.18-10.34,18.98-18.23,26.44-7.84,7.46-17.22,13.33-28.1,17.65-10.88,4.27-22.82,6.45-35.83,6.45h-62.17V10.66h0Zm61.95,140.27c8.74,0,16.69-1.39,23.83-4.16,7.14-2.77,13.22-6.72,18.23-11.73,5.01-5.01,8.9-10.98,11.68-17.91,2.77-6.93,4.16-14.45,4.16-22.61v-.48c0-8.1-1.39-15.73-4.16-22.71-2.77-7.04-6.66-13.01-11.68-18.07-5.01-5.01-11.09-8.96-18.23-11.84-7.14-2.88-15.09-4.32-23.83-4.32h-32.84v113.83h32.84Z" fill="#387ED1"/>
+</svg>
       </div>
     </div>
   </div>
@@ -919,6 +1021,20 @@
       <td style="padding:8px 10px;text-align:right;font-size:12px;font-weight:600;color:#E05252;">-0.50%</td>
     </tr></tbody>
     </table>
+    <div style="padding:7px 12px;border-top:1px solid #F0F0F0;display:flex;align-items:center;justify-content:space-between;">
+      <span style="font-size:10px;color:#CCCCCC;">Source: Tijori Finance</span>
+      <svg height="13" viewBox="0 0 1523.45 184.15" xmlns="http://www.w3.org/2000/svg" style="display:inline-block;vertical-align:middle;opacity:0.55">
+  <path d="m1422.95,9.49h27.14l73.36,167.89h-30.98l-16.9-40.25h-78.85l-17.17,40.25h-30.02l73.42-167.89Zm41.91,101.67l-28.79-66.7-28.58,66.7h57.37Z" fill="#387ED1"/>
+  <path d="m1182.92,10.66h29.06v69.31h79.97V10.66h29.06v166.72h-29.06v-70.27h-79.97v70.27h-29.06V10.66Z" fill="#387ED1"/>
+  <path d="m156.38,44.79c11.25,14.56,20.58,30.92,27.78,48.62V0h-79.28c19.03,10.34,36.52,25.38,51.5,44.79Z" fill="#387ED1"/>
+  <path d="m42.07,9.97c-14.66,0-28.79,3.15-42.07,8.96v165.23h176.05C174.66,87.81,115.11,9.97,42.07,9.97" fill="#387ED1"/>
+  <path d="m289.35,155.68l98.37-119.05h-95.28V10.66h133.34v21.65l-98.37,119.11h98.37v25.96h-136.49v-21.7h.05Z" fill="#387ED1"/>
+  <path d="m462.46,10.66h123.37v26.44h-94.32v42.87h83.6v26.44h-83.6v44.52h95.49v26.44h-124.55V10.66h0Z" fill="#387ED1"/>
+  <path d="m622.04,10.66h74.32c10.5,0,19.78,1.49,27.88,4.43,8.1,2.93,14.82,7.04,20.26,12.26,4.43,4.59,7.84,9.92,10.24,15.94,2.4,6.02,3.57,12.69,3.57,19.99v.48c0,6.82-1.01,12.96-2.99,18.45-1.97,5.49-4.75,10.34-8.21,14.5-3.52,4.21-7.68,7.78-12.53,10.72-4.85,2.93-10.18,5.22-16.1,6.77l45,63.13h-34.55l-41.11-58.11h-36.73v58.11h-29.06V10.66Zm72.08,82.64c10.5,0,18.87-2.51,25.06-7.52,6.18-5.01,9.33-11.84,9.33-20.47v-.48c0-9.06-3.04-15.99-9.06-20.69-6.02-4.69-14.56-7.04-25.54-7.04h-42.81v56.2h43.03Z" fill="#387ED1"/>
+  <path d="m873.8,180.21c-12.85,0-24.63-2.24-35.24-6.77-10.66-4.53-19.78-10.66-27.4-18.45s-13.6-16.85-17.86-27.24c-4.27-10.4-6.45-21.49-6.45-33.22v-.48c0-11.73,2.13-22.82,6.45-33.22,4.27-10.4,10.34-19.51,18.07-27.4,7.78-7.84,17.01-14.08,27.62-18.71,10.61-4.59,22.39-6.93,35.24-6.93s24.63,2.24,35.24,6.77c10.61,4.53,19.78,10.66,27.4,18.45,7.62,7.78,13.6,16.85,17.86,27.24,4.27,10.4,6.45,21.49,6.45,33.22v.48c0,11.73-2.13,22.82-6.45,33.22-4.27,10.4-10.34,19.51-18.07,27.4-7.78,7.84-17.01,14.08-27.62,18.71-10.66,4.64-22.39,6.93-35.24,6.93Zm.43-26.87c8.21,0,15.78-1.55,22.66-4.64,6.88-3.09,12.74-7.3,17.65-12.64s8.74-11.57,11.52-18.71c2.77-7.14,4.16-14.77,4.16-22.87v-.48c0-8.1-1.39-15.78-4.16-22.98-2.77-7.2-6.66-13.49-11.62-18.82-4.96-5.33-10.93-9.54-17.91-12.74-6.98-3.2-14.56-4.75-22.77-4.75s-15.78,1.55-22.66,4.64c-6.88,3.09-12.74,7.3-17.65,12.64-4.91,5.33-8.74,11.57-11.52,18.71-2.77,7.14-4.16,14.77-4.16,22.87v.48c0,8.1,1.39,15.78,4.16,22.98,2.77,7.25,6.66,13.49,11.62,18.82,4.96,5.33,10.93,9.54,17.91,12.74,6.98,3.15,14.56,4.75,22.77,4.75Z" fill="#387ED1"/>
+  <path d="m996.64,10.66h62.17c13.01,0,24.95,2.13,35.83,6.29,10.88,4.21,20.26,10.02,28.1,17.49,7.84,7.46,13.92,16.26,18.23,26.34,4.27,10.08,6.45,21.01,6.45,32.74v.48c0,11.73-2.13,22.71-6.45,32.84-4.27,10.18-10.34,18.98-18.23,26.44-7.84,7.46-17.22,13.33-28.1,17.65-10.88,4.27-22.82,6.45-35.83,6.45h-62.17V10.66h0Zm61.95,140.27c8.74,0,16.69-1.39,23.83-4.16,7.14-2.77,13.22-6.72,18.23-11.73,5.01-5.01,8.9-10.98,11.68-17.91,2.77-6.93,4.16-14.45,4.16-22.61v-.48c0-8.1-1.39-15.73-4.16-22.71-2.77-7.04-6.66-13.01-11.68-18.07-5.01-5.01-11.09-8.96-18.23-11.84-7.14-2.88-15.09-4.32-23.83-4.32h-32.84v113.83h32.84Z" fill="#387ED1"/>
+</svg>
+    </div>
   </div>
   </div>
   <div class="nl-divider"></div>
@@ -1196,10 +1312,23 @@
         <td style="padding:8px 10px;font-size:12px;color:#424242;border-bottom:1px solid #F5F5F5;text-align:right;color:#BBBBBB;">—</td>
       </tr></tbody>
     </table>
-    <div style="padding:8px 12px;font-size:10px;color:#CCCCCC;border-top:1px solid #F0F0F0;">
-      <span style="display:inline-block;width:7px;height:7px;border-radius:50%;background:#E05252;margin-right:4px;vertical-align:middle;"></span>High &nbsp;
-      <span style="display:inline-block;width:7px;height:7px;border-radius:50%;background:#F59E0B;margin-right:4px;vertical-align:middle;"></span>Medium &nbsp;
-      <span style="display:inline-block;width:7px;height:7px;border-radius:50%;background:#BBBBBB;margin-right:4px;vertical-align:middle;"></span>Low
+    <div style="padding:8px 12px;font-size:10px;color:#CCCCCC;border-top:1px solid #F0F0F0;display:flex;align-items:center;justify-content:space-between;">
+      <span>
+        <span style="display:inline-block;width:7px;height:7px;border-radius:50%;background:#E05252;margin-right:4px;vertical-align:middle;"></span>High &nbsp;
+        <span style="display:inline-block;width:7px;height:7px;border-radius:50%;background:#F59E0B;margin-right:4px;vertical-align:middle;"></span>Medium &nbsp;
+        <span style="display:inline-block;width:7px;height:7px;border-radius:50%;background:#BBBBBB;margin-right:4px;vertical-align:middle;"></span>Low
+      </span>
+      <svg height="13" viewBox="0 0 1523.45 184.15" xmlns="http://www.w3.org/2000/svg" style="display:inline-block;vertical-align:middle;opacity:0.55">
+  <path d="m1422.95,9.49h27.14l73.36,167.89h-30.98l-16.9-40.25h-78.85l-17.17,40.25h-30.02l73.42-167.89Zm41.91,101.67l-28.79-66.7-28.58,66.7h57.37Z" fill="#387ED1"/>
+  <path d="m1182.92,10.66h29.06v69.31h79.97V10.66h29.06v166.72h-29.06v-70.27h-79.97v70.27h-29.06V10.66Z" fill="#387ED1"/>
+  <path d="m156.38,44.79c11.25,14.56,20.58,30.92,27.78,48.62V0h-79.28c19.03,10.34,36.52,25.38,51.5,44.79Z" fill="#387ED1"/>
+  <path d="m42.07,9.97c-14.66,0-28.79,3.15-42.07,8.96v165.23h176.05C174.66,87.81,115.11,9.97,42.07,9.97" fill="#387ED1"/>
+  <path d="m289.35,155.68l98.37-119.05h-95.28V10.66h133.34v21.65l-98.37,119.11h98.37v25.96h-136.49v-21.7h.05Z" fill="#387ED1"/>
+  <path d="m462.46,10.66h123.37v26.44h-94.32v42.87h83.6v26.44h-83.6v44.52h95.49v26.44h-124.55V10.66h0Z" fill="#387ED1"/>
+  <path d="m622.04,10.66h74.32c10.5,0,19.78,1.49,27.88,4.43,8.1,2.93,14.82,7.04,20.26,12.26,4.43,4.59,7.84,9.92,10.24,15.94,2.4,6.02,3.57,12.69,3.57,19.99v.48c0,6.82-1.01,12.96-2.99,18.45-1.97,5.49-4.75,10.34-8.21,14.5-3.52,4.21-7.68,7.78-12.53,10.72-4.85,2.93-10.18,5.22-16.1,6.77l45,63.13h-34.55l-41.11-58.11h-36.73v58.11h-29.06V10.66Zm72.08,82.64c10.5,0,18.87-2.51,25.06-7.52,6.18-5.01,9.33-11.84,9.33-20.47v-.48c0-9.06-3.04-15.99-9.06-20.69-6.02-4.69-14.56-7.04-25.54-7.04h-42.81v56.2h43.03Z" fill="#387ED1"/>
+  <path d="m873.8,180.21c-12.85,0-24.63-2.24-35.24-6.77-10.66-4.53-19.78-10.66-27.4-18.45s-13.6-16.85-17.86-27.24c-4.27-10.4-6.45-21.49-6.45-33.22v-.48c0-11.73,2.13-22.82,6.45-33.22,4.27-10.4,10.34-19.51,18.07-27.4,7.78-7.84,17.01-14.08,27.62-18.71,10.61-4.59,22.39-6.93,35.24-6.93s24.63,2.24,35.24,6.77c10.61,4.53,19.78,10.66,27.4,18.45,7.62,7.78,13.6,16.85,17.86,27.24,4.27,10.4,6.45,21.49,6.45,33.22v.48c0,11.73-2.13,22.82-6.45,33.22-4.27,10.4-10.34,19.51-18.07,27.4-7.78,7.84-17.01,14.08-27.62,18.71-10.66,4.64-22.39,6.93-35.24,6.93Zm.43-26.87c8.21,0,15.78-1.55,22.66-4.64,6.88-3.09,12.74-7.3,17.65-12.64s8.74-11.57,11.52-18.71c2.77-7.14,4.16-14.77,4.16-22.87v-.48c0-8.1-1.39-15.78-4.16-22.98-2.77-7.2-6.66-13.49-11.62-18.82-4.96-5.33-10.93-9.54-17.91-12.74-6.98-3.2-14.56-4.75-22.77-4.75s-15.78,1.55-22.66,4.64c-6.88,3.09-12.74,7.3-17.65,12.64-4.91,5.33-8.74,11.57-11.52,18.71-2.77,7.14-4.16,14.77-4.16,22.87v.48c0,8.1,1.39,15.78,4.16,22.98,2.77,7.25,6.66,13.49,11.62,18.82,4.96,5.33,10.93,9.54,17.91,12.74,6.98,3.15,14.56,4.75,22.77,4.75Z" fill="#387ED1"/>
+  <path d="m996.64,10.66h62.17c13.01,0,24.95,2.13,35.83,6.29,10.88,4.21,20.26,10.02,28.1,17.49,7.84,7.46,13.92,16.26,18.23,26.34,4.27,10.08,6.45,21.01,6.45,32.74v.48c0,11.73-2.13,22.71-6.45,32.84-4.27,10.18-10.34,18.98-18.23,26.44-7.84,7.46-17.22,13.33-28.1,17.65-10.88,4.27-22.82,6.45-35.83,6.45h-62.17V10.66h0Zm61.95,140.27c8.74,0,16.69-1.39,23.83-4.16,7.14-2.77,13.22-6.72,18.23-11.73,5.01-5.01,8.9-10.98,11.68-17.91,2.77-6.93,4.16-14.45,4.16-22.61v-.48c0-8.1-1.39-15.73-4.16-22.71-2.77-7.04-6.66-13.01-11.68-18.07-5.01-5.01-11.09-8.96-18.23-11.84-7.14-2.88-15.09-4.32-23.83-4.32h-32.84v113.83h32.84Z" fill="#387ED1"/>
+</svg>
     </div>
   </div>
 <div style="border:1px solid #E7E7E7;border-radius:8px;overflow:hidden;">
@@ -1242,7 +1371,20 @@
       <td style="padding:9px 12px;font-size:13px;color:#333;border-bottom:1px solid #F5F5F5;background:#FAFAFB;text-align:right;font-size:12px;color:#989898;">23-Apr-2026</td>
     </tr></tbody>
     </table>
-    <div style="padding:7px 12px;font-size:10px;color:#CCCCCC;border-top:1px solid #F0F0F0;">Source: NSE India / BSE</div>
+    <div style="padding:7px 12px;font-size:10px;color:#CCCCCC;border-top:1px solid #F0F0F0;display:flex;align-items:center;justify-content:space-between;">
+    <span>Source: NSE India / BSE</span>
+    <svg height="13" viewBox="0 0 1523.45 184.15" xmlns="http://www.w3.org/2000/svg" style="display:inline-block;vertical-align:middle;opacity:0.55">
+  <path d="m1422.95,9.49h27.14l73.36,167.89h-30.98l-16.9-40.25h-78.85l-17.17,40.25h-30.02l73.42-167.89Zm41.91,101.67l-28.79-66.7-28.58,66.7h57.37Z" fill="#387ED1"/>
+  <path d="m1182.92,10.66h29.06v69.31h79.97V10.66h29.06v166.72h-29.06v-70.27h-79.97v70.27h-29.06V10.66Z" fill="#387ED1"/>
+  <path d="m156.38,44.79c11.25,14.56,20.58,30.92,27.78,48.62V0h-79.28c19.03,10.34,36.52,25.38,51.5,44.79Z" fill="#387ED1"/>
+  <path d="m42.07,9.97c-14.66,0-28.79,3.15-42.07,8.96v165.23h176.05C174.66,87.81,115.11,9.97,42.07,9.97" fill="#387ED1"/>
+  <path d="m289.35,155.68l98.37-119.05h-95.28V10.66h133.34v21.65l-98.37,119.11h98.37v25.96h-136.49v-21.7h.05Z" fill="#387ED1"/>
+  <path d="m462.46,10.66h123.37v26.44h-94.32v42.87h83.6v26.44h-83.6v44.52h95.49v26.44h-124.55V10.66h0Z" fill="#387ED1"/>
+  <path d="m622.04,10.66h74.32c10.5,0,19.78,1.49,27.88,4.43,8.1,2.93,14.82,7.04,20.26,12.26,4.43,4.59,7.84,9.92,10.24,15.94,2.4,6.02,3.57,12.69,3.57,19.99v.48c0,6.82-1.01,12.96-2.99,18.45-1.97,5.49-4.75,10.34-8.21,14.5-3.52,4.21-7.68,7.78-12.53,10.72-4.85,2.93-10.18,5.22-16.1,6.77l45,63.13h-34.55l-41.11-58.11h-36.73v58.11h-29.06V10.66Zm72.08,82.64c10.5,0,18.87-2.51,25.06-7.52,6.18-5.01,9.33-11.84,9.33-20.47v-.48c0-9.06-3.04-15.99-9.06-20.69-6.02-4.69-14.56-7.04-25.54-7.04h-42.81v56.2h43.03Z" fill="#387ED1"/>
+  <path d="m873.8,180.21c-12.85,0-24.63-2.24-35.24-6.77-10.66-4.53-19.78-10.66-27.4-18.45s-13.6-16.85-17.86-27.24c-4.27-10.4-6.45-21.49-6.45-33.22v-.48c0-11.73,2.13-22.82,6.45-33.22,4.27-10.4,10.34-19.51,18.07-27.4,7.78-7.84,17.01-14.08,27.62-18.71,10.61-4.59,22.39-6.93,35.24-6.93s24.63,2.24,35.24,6.77c10.61,4.53,19.78,10.66,27.4,18.45,7.62,7.78,13.6,16.85,17.86,27.24,4.27,10.4,6.45,21.49,6.45,33.22v.48c0,11.73-2.13,22.82-6.45,33.22-4.27,10.4-10.34,19.51-18.07,27.4-7.78,7.84-17.01,14.08-27.62,18.71-10.66,4.64-22.39,6.93-35.24,6.93Zm.43-26.87c8.21,0,15.78-1.55,22.66-4.64,6.88-3.09,12.74-7.3,17.65-12.64s8.74-11.57,11.52-18.71c2.77-7.14,4.16-14.77,4.16-22.87v-.48c0-8.1-1.39-15.78-4.16-22.98-2.77-7.2-6.66-13.49-11.62-18.82-4.96-5.33-10.93-9.54-17.91-12.74-6.98-3.2-14.56-4.75-22.77-4.75s-15.78,1.55-22.66,4.64c-6.88,3.09-12.74,7.3-17.65,12.64-4.91,5.33-8.74,11.57-11.52,18.71-2.77,7.14-4.16,14.77-4.16,22.87v.48c0,8.1,1.39,15.78,4.16,22.98,2.77,7.25,6.66,13.49,11.62,18.82,4.96,5.33,10.93,9.54,17.91,12.74,6.98,3.15,14.56,4.75,22.77,4.75Z" fill="#387ED1"/>
+  <path d="m996.64,10.66h62.17c13.01,0,24.95,2.13,35.83,6.29,10.88,4.21,20.26,10.02,28.1,17.49,7.84,7.46,13.92,16.26,18.23,26.34,4.27,10.08,6.45,21.01,6.45,32.74v.48c0,11.73-2.13,22.71-6.45,32.84-4.27,10.18-10.34,18.98-18.23,26.44-7.84,7.46-17.22,13.33-28.1,17.65-10.88,4.27-22.82,6.45-35.83,6.45h-62.17V10.66h0Zm61.95,140.27c8.74,0,16.69-1.39,23.83-4.16,7.14-2.77,13.22-6.72,18.23-11.73,5.01-5.01,8.9-10.98,11.68-17.91,2.77-6.93,4.16-14.45,4.16-22.61v-.48c0-8.1-1.39-15.73-4.16-22.71-2.77-7.04-6.66-13.01-11.68-18.07-5.01-5.01-11.09-8.96-18.23-11.84-7.14-2.88-15.09-4.32-23.83-4.32h-32.84v113.83h32.84Z" fill="#387ED1"/>
+</svg>
+  </div>
   </div>
   </div>
   <div class="nl-divider"></div>
